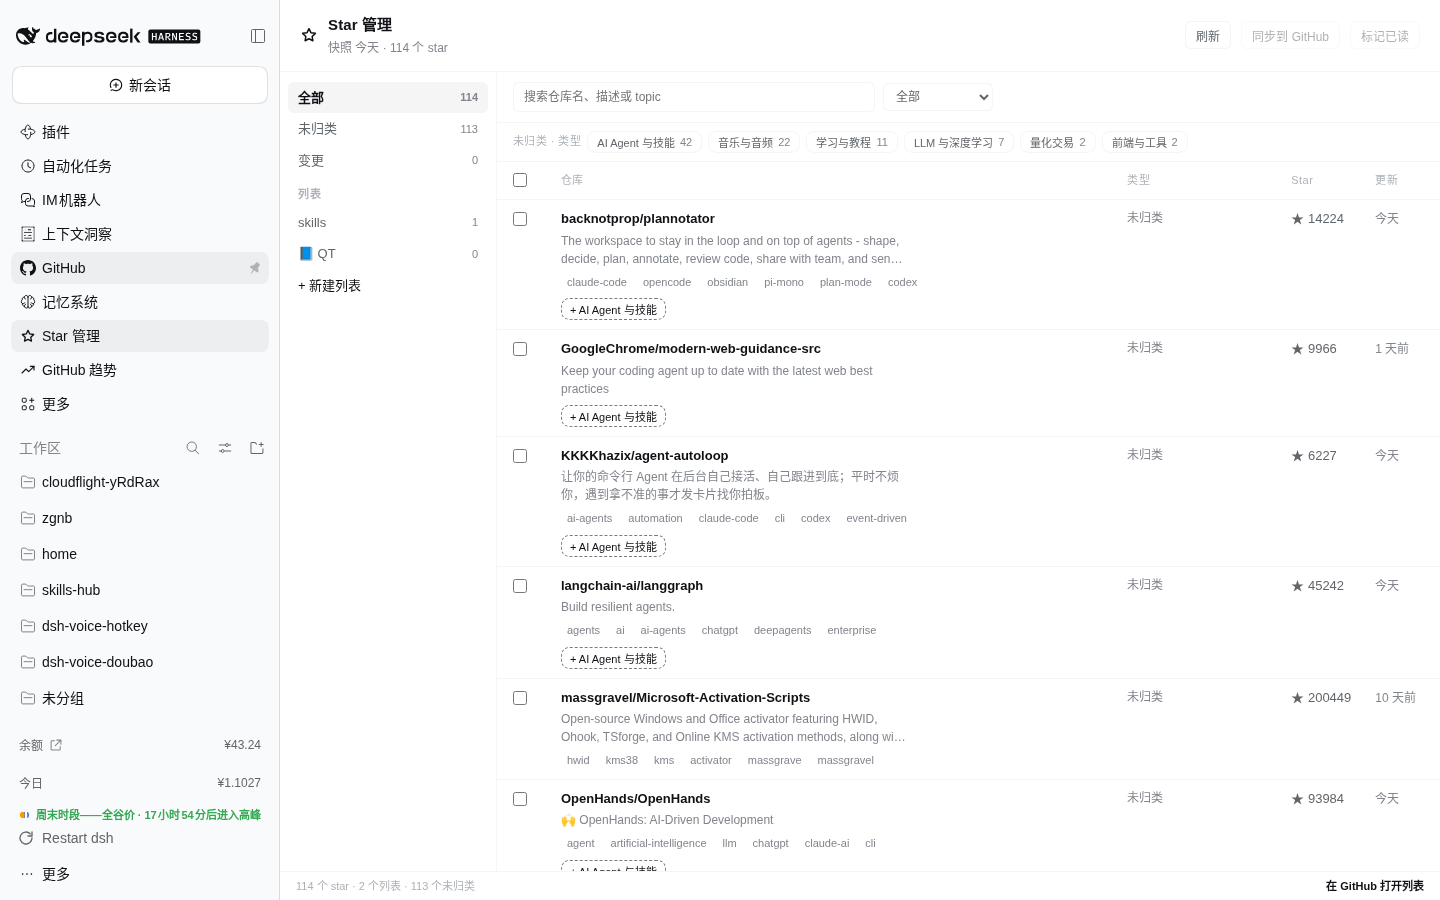
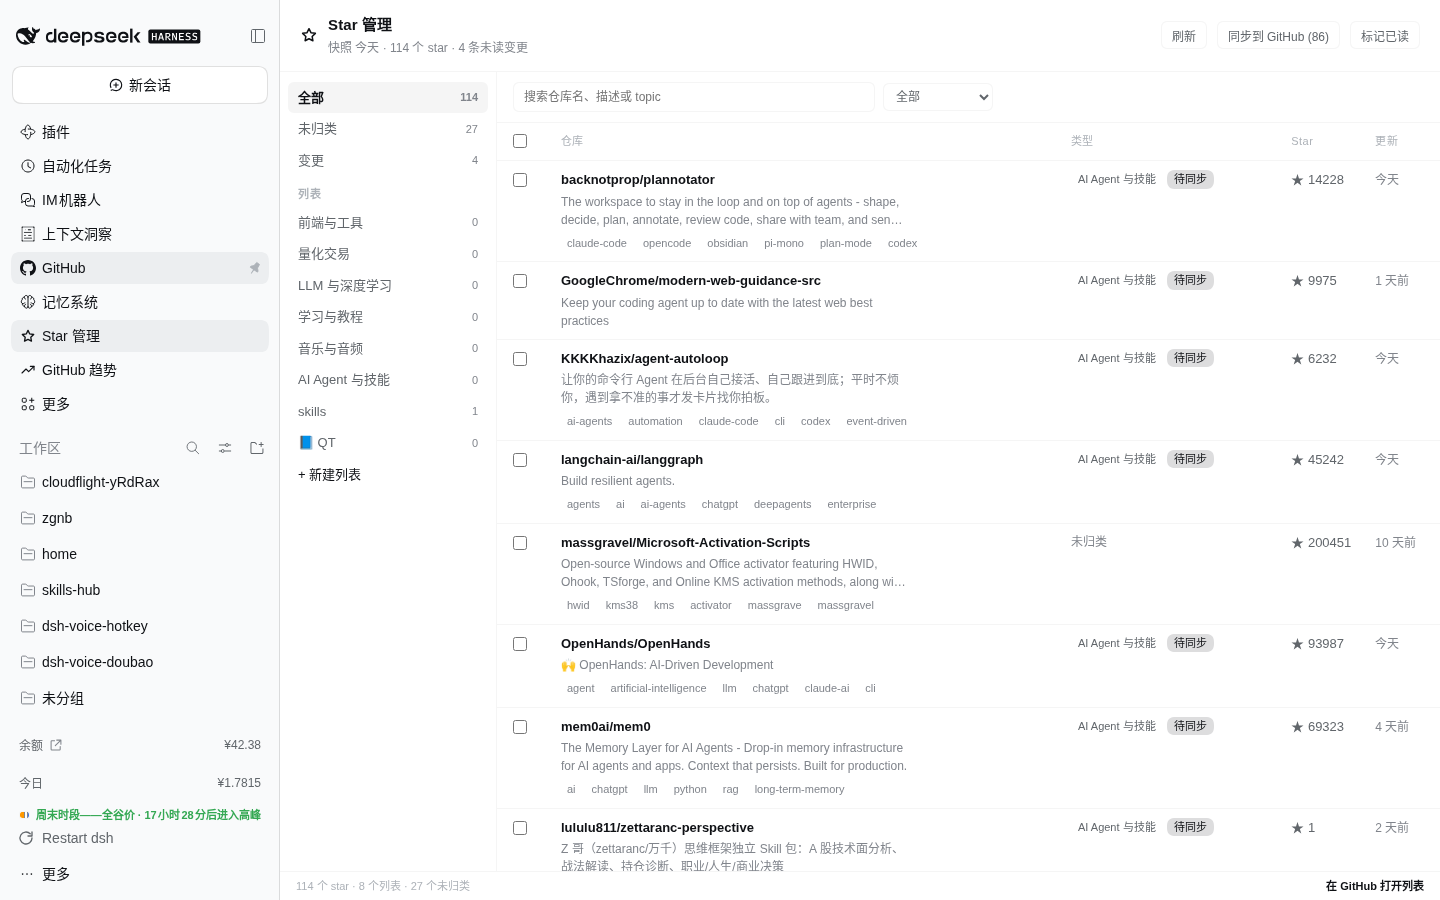
feat: 一键采纳全部建议 + 变更去噪
- 分布条右侧「采纳全部建议 (n)」：只给未归类仓库批量暂存，缺对应 Lists 时自动创建，写回仍需确认
- star 涨跌超过 10 个或 10% 才登记；同一仓库同类变更只留最新一条，读盘时清理旧噪声
- 已归类的仓库不再显示重复的建议按钮

diff --git a/client.js b/client.js
@@ -54,6 +54,8 @@ window.__ModuleLoader__.load({
       create: '创建',
       acceptSuggestion: (name) => `建议：${name}`,
       useSuggestion: '采纳建议',
+      acceptAll: (n) => `采纳全部建议 (${n})`,
+      accepted: (n, c) => (c > 0 ? `已暂存 ${n} 个仓库的分类建议，新建了 ${c} 个列表，点「同步到 GitHub」写回` : `已暂存 ${n} 个仓库的分类建议，点「同步到 GitHub」写回`),
       archived: '已归档',
       stale: '一年未更新',
       pendingChip: '待同步',
@@ -330,6 +332,11 @@ window.__ModuleLoader__.load({
       const pendingCount = repos.filter((repo) => repo.pending?.add?.length || repo.pending?.remove?.length).length
       const unsortedCount = repos.filter((repo) => (repo.desired ?? []).length === 0).length
 
+      const acceptCount = React.useMemo(
+        () => repos.filter((repo) => (repo.desired ?? []).length === 0 && suggestions[repo.nameWithOwner]?.list).length,
+        [repos, suggestions],
+      )
+
       const distribution = React.useMemo(() => {
         const counts = new Map()
         for (const repo of repos) {
@@ -371,6 +378,12 @@ window.__ModuleLoader__.load({
         }
         if (!list) return
         await stage([repo.nameWithOwner], { add: [list.id] })
+      }
+
+      const acceptAll = async () => {
+        const value = await run({ action: 'acceptSuggestions' })
+        setSelected(new Set())
+        setNotice({ tone: 'ok', text: t('accepted', value.staged ?? 0, value.created ?? 0) })
       }
 
       const doSync = async () => {
@@ -466,7 +479,15 @@ window.__ModuleLoader__.load({
             className: 'stars-distchip',
             'data-active': String(suggestFilter === name),
             onClick: () => setSuggestFilter((prev) => (prev === name ? null : name)),
-          }, name, h('span', { className: 'stars-distcount' }, String(count)))))
+          }, name, h('span', { className: 'stars-distcount' }, String(count)))),
+          acceptCount > 0
+            ? h('button', {
+              className: 'stars-btn',
+              style: { marginLeft: 'auto', height: 22 },
+              disabled: busy,
+              onClick: () => acceptAll().catch(() => {}),
+            }, t('acceptAll', acceptCount))
+            : null)
         : null
 
       const changeView = h('div', { className: 'stars-changes' },
@@ -494,7 +515,7 @@ window.__ModuleLoader__.load({
               (repo.topics ?? []).length
                 ? h('div', { className: 'stars-topics' }, ...repo.topics.slice(0, 6).map((topic) => h('span', { className: 'stars-topic', key: topic }, topic)))
                 : null,
-              suggested
+              suggested && (repo.desired ?? []).length === 0
                 ? h('div', { className: 'stars-suggest' },
                   h('button', {
                     className: 'stars-suggestbtn',

diff --git a/src/store.js b/src/store.js
@@ -6,6 +6,8 @@ import { mkdir, readFile, rename, writeFile } from 'node:fs/promises'
 import path from 'node:path'
 
 export const MAX_CHANGES = 400
+/** star 数变化小于该绝对值时不登记为变更。 */
+export const STAR_DELTA_MIN = 10
 
 export function blankState() {
   return {
@@ -97,6 +99,15 @@ export class Store {
       repo.pending = normalizePending(repo.pending)
       if (!Array.isArray(repo.lists)) repo.lists = []
     }
+    // 旧版本把每次 +1 star 都记成变更；读盘时清掉这些噪声，只留阈值以上的涨跌。
+    const seen = new Set()
+    this.#state.changes = this.#state.changes.filter((change) => {
+      if (change?.kind === 'stars' && Math.abs(Number(change.delta) || 0) < STAR_DELTA_MIN) return false
+      const key = `${change?.kind}:${change?.nameWithOwner}`
+      if (seen.has(key)) return false
+      seen.add(key)
+      return true
+    })
     return this.#state
   }
 
@@ -160,8 +171,12 @@ export class Store {
         changes.push(changeEntry('commits', merged, `有新提交（${merged.pushedAt.slice(0, 10)}）`))
       }
       if (merged.archived && !old.archived) changes.push(changeEntry('archived', merged, '仓库已归档'))
+      // star 数每天都会小幅波动，只有涨跌超过阈值才值得提示，避免淹没真正的代码变更。
       const delta = (merged.stars ?? 0) - (old.stars ?? 0)
-      if (delta !== 0) changes.push(changeEntry('stars', merged, `star ${delta > 0 ? '+' : ''}${delta}`, { delta }))
+      const starThreshold = Math.max(STAR_DELTA_MIN, Math.round((old.stars ?? 0) * 0.1))
+      if (Math.abs(delta) >= starThreshold) {
+        changes.push(changeEntry('stars', merged, `star ${delta > 0 ? '+' : ''}${delta}`, { delta }))
+      }
     }
 
     for (const name of Object.keys(prev)) {
@@ -173,7 +188,12 @@ export class Store {
     this.#state.lists = fetched.lists ?? []
     this.#state.viewer = fetched.viewer ?? this.#state.viewer
     this.#state.snapshotAt = new Date().toISOString()
-    this.#state.changes = [...changes, ...this.#state.changes].slice(0, MAX_CHANGES)
+    // 同一个仓库的同一种变更只留最新一条：反复刷新时不会堆出一串重复的「有新提交」。
+    const fresh = new Set(changes.map((change) => `${change.kind}:${change.nameWithOwner}`))
+    this.#state.changes = [
+      ...changes,
+      ...this.#state.changes.filter((change) => !fresh.has(`${change.kind}:${change.nameWithOwner}`)),
+    ].slice(0, MAX_CHANGES)
     return changes
   }
 

diff --git a/index.js b/index.js
@@ -128,6 +128,40 @@ export function apply(ctx, config = {}) {
         await store.save()
         return { touched, ...view() }
       }
+      case 'acceptSuggestions': {
+        // 只做暂存：把每条建议落到对应列表的 pending.add 上，写回 GitHub 仍要用户点一次「同步」。
+        await store.load()
+        const suggestions = suggestAll(store.view().repos, rules)
+        const byName = new Map(store.state.lists.map((list) => [list.name, list.id]))
+        const groups = new Map()
+        let created = 0
+        let kept = 0
+        for (const [fullName, suggestion] of Object.entries(suggestions)) {
+          const repo = store.state.repos[fullName]
+          if (!repo) continue
+          // 已经归过类（或已在待同步队列里）的仓库不强行塞第二个分类。
+          if ((repo.lists ?? []).length > 0 || (repo.pending?.add ?? []).length > 0) {
+            kept += 1
+            continue
+          }
+          let listId = byName.get(suggestion.list)
+          if (!listId) {
+            const list = await github.createList(suggestion.list, 'dsh-stars 自动创建')
+            store.setList(list)
+            byName.set(list.name, list.id)
+            listId = list.id
+            created += 1
+          }
+          if (!groups.has(listId)) groups.set(listId, [])
+          groups.get(listId).push(fullName)
+        }
+        let staged = 0
+        for (const [listId, names] of groups) {
+          staged += store.stage(names, { add: [listId], remove: [] })
+        }
+        await store.save()
+        return { created, staged, kept, ...view() }
+      }
       case 'sync': {
         const result = await sync({ dryRun: Boolean(payload.dryRun) })
         return { ...result, ...view() }

diff --git a/docs/DETAIL.md b/docs/DETAIL.md
@@ -7,6 +7,7 @@ DSH 左侧栏的面板：把 GitHub star 归进 Lists，并告诉你自上次查
 - 左侧「列表」分成两条路：**未归类**（没有进任何 Lists 的）+ 你已有的 Lists。面板不发明分类体系，分类结果直接落在 GitHub Lists 上，网页和手机端看到的一致。
 - 内置六条归类建议：AI Agent 与技能、音乐与音频、LLM 与深度学习、量化交易、学习与教程、前端与工具。建议来自仓库的 topics、描述和仓库名，**只给建议**，点一下才暂存。
 - 采纳建议时如果对应名字的 Lists 还不存在，会先创建再暂存（创建是真实的 GitHub 操作，暂存不是）。
+- 分布条右侧的「采纳全部建议 (n)」批量做同样的事：只给「还没归任何列表」的仓库暂存建议，已归类的跳过；写回 GitHub 仍然要用户再点一次「同步到 GitHub」。
 
 ## 2. 归类是两段式的
 
@@ -28,6 +29,8 @@ DSH 左侧栏的面板：把 GitHub star 归进 Lists，并告诉你自上次查
 | 归档 | `isArchived` 从 false 变 true |
 | Star 变化 | `stargazerCount` 有增减，记录增量 |
 | 取消收藏 | 上次有、这次没了 |
+
+Star 数每天小幅波动很正常，只有涨跌超过 `STAR_DELTA_MIN`（10 个）或该仓库 star 数的 10% 才登记，避免淹没真正的代码变更。
 
 变更最多保留 400 条。「变更」页之外，点「标记已读」把未读数清零。
 

diff --git a/README.md b/README.md
@@ -9,8 +9,8 @@ GitHub 自带的 stars 页面只能一页页翻，分类要么靠 Lists（没有
 这个插件做三件事：
 
 1. **看类型**：把 114 个 star 按主题分成六类，并给每个仓库一条归类建议（只建议，不自动写）。
-2. **分类查看**：左侧按「全部 / 未归类 / 每个 Lists / 变更」切换，支持搜索、只看归档、只看一年未更新、只看待同步。
-3. **跟踪变更**：每次抓取和上一次快照比对，产出新收藏、新版本、新提交、归档、Star 涨跌、取消收藏六种变更，并记「未读数」。
+2. **分类查看**：左侧按「全部 / 未归类 / 每个 Lists / 变更」切换，支持搜索、只看归档、只看一年未更新、只看待同步；类型分布条右侧的「采纳全部建议」一次把几十条建议暂存好，再点一次同步写回。
+3. **跟踪变更**：每次抓取和上一次快照比对，产出新收藏、新版本、新提交、归档、Star 涨跌、取消收藏六种变更，并记「未读数」；Star 涨跌只有超过 10 个或 10% 才登记，避免 +1 噪声。
 
 分类结果的**真源是 GitHub Lists**：面板里的归类先暂存在本地，点「同步到 GitHub」才用 GraphQL `updateUserListsForItem` 写回，所以在 GitHub 网页和手机上也看得到同样的分组。
 
